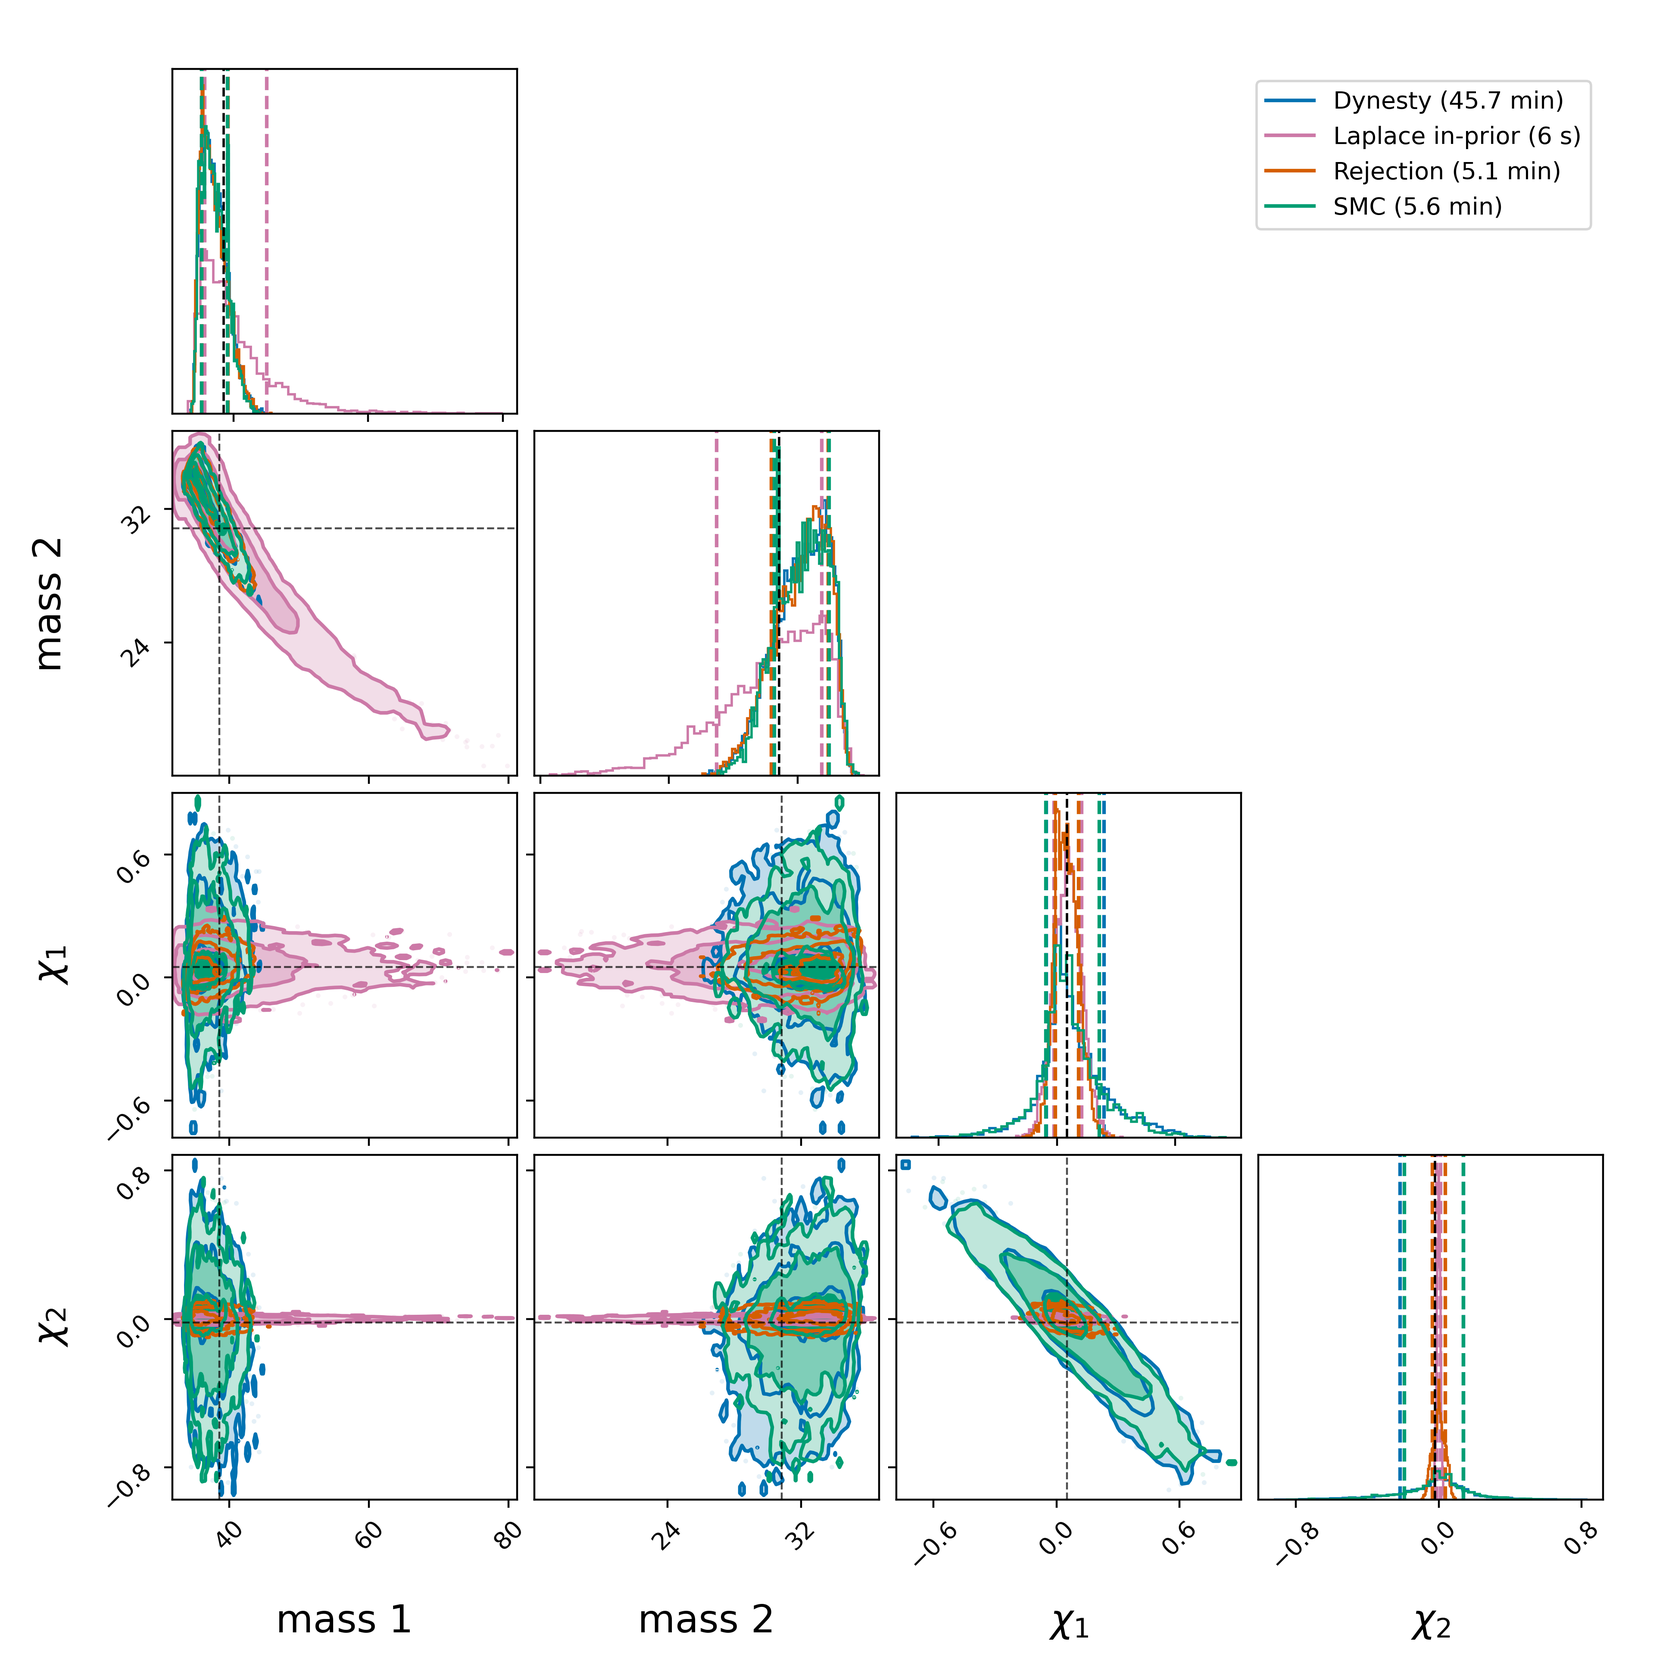
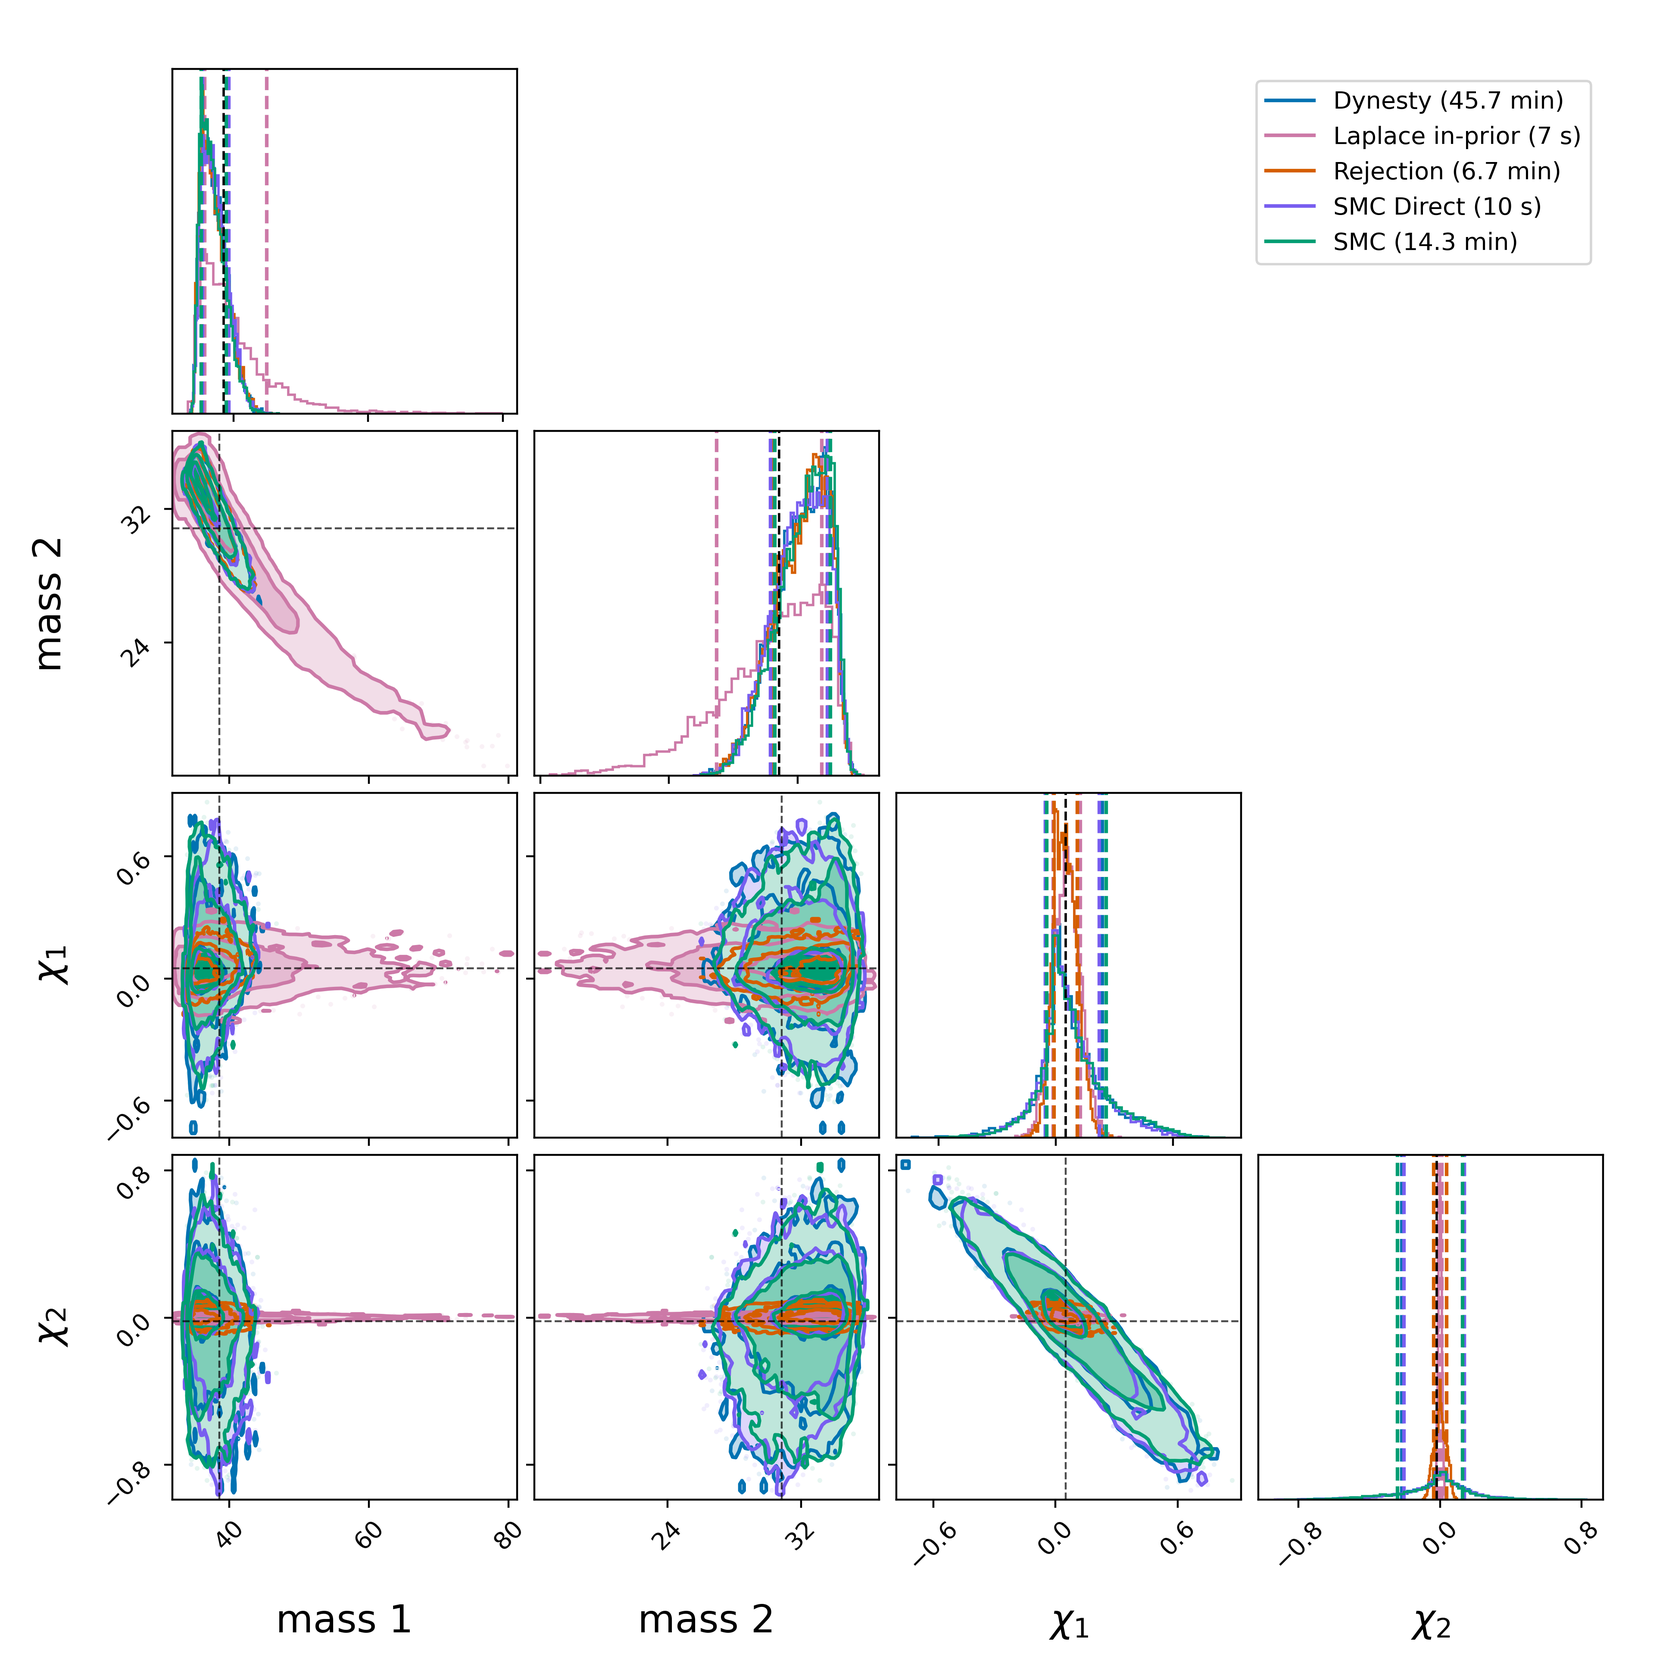
Update examples and fix broken issues

diff --git a/src/bilby_laplace/sampler.py b/src/bilby_laplace/sampler.py
@@ -993,15 +993,28 @@ class Laplace(Sampler):
         end_time = datetime.datetime.now()
         self.sampling_time = end_time - self.start_time
 
-        if self.use_ratio:
-            logl -= self.likelihood.noise_log_likelihood()
-
+        # Both quantities above are on the *full* likelihood's footing:
+        # ``LaplacePosteriorEstimator`` calls ``likelihood.log_likelihood()``
+        # regardless of ``use_ratio``, so every evidence here is a full log Z.
         logger.info(
-            f"Log-evidence summary: "
+            f"Log-evidence summary (full log Z, noise term included): "
             f"Laplace={log_evidence_laplace:.2f}, "
             f"final={log_evidence:.2f} "
             f"+/- {log_evidence_err:.2f}"
         )
+
+        # Hand bilby what its post-processing expects.  Under ``use_ratio`` it
+        # reads the returned evidence as a log Bayes factor and adds the noise
+        # evidence back on top (see ``bilby.core.sampler.run_sampler``), so the
+        # noise term has to come off here first.  The per-sample values take the
+        # identical shift -- subtracting it from ``logl`` alone, as this did,
+        # left one extra noise evidence in the reported log Z: ~13000 nats on a
+        # GW likelihood, enough to make log Z incomparable with any other
+        # sampler.  Shifting by a constant leaves ``log_evidence_err`` alone.
+        if self.use_ratio:
+            log_noise_evidence = self.likelihood.noise_log_likelihood()
+            logl -= log_noise_evidence
+            log_evidence -= log_noise_evidence
 
         if nlikelihood is None:
             nlikelihood = len(g_samples)
@@ -1086,6 +1099,38 @@ class Laplace(Sampler):
         df_out = pd.DataFrame(x_out, columns=parameter_names)
         df_out = self._replace_with_prior_samples(df_out, parameter_names)
         x_out = df_out.values
+        return x_out
+
+    def _draw_initial_smc_samples(self, proposals, n, parameter_names):
+        """Draw *n* in-prior samples spread evenly across *proposals*.
+
+        With one proposal this is exactly ``_draw_inprior_samples``.  With
+        several -- one per mode found by ``_find_multiple_maps`` -- the draw is
+        stratified so every mode contributes an equal share, which is what makes
+        the flow aspire fits to this cloud multimodal.  Returns an
+        ``(n, ndim)`` float array.
+        """
+        if len(proposals) == 1:
+            return self._draw_inprior_samples(proposals[0], n, parameter_names)
+
+        k = len(proposals)
+        # Spread the remainder over the leading modes so the total is exactly n.
+        counts = [n // k + (1 if i < n % k else 0) for i in range(k)]
+        chunks = []
+        for i, (mode_proposal, n_i) in enumerate(zip(proposals, counts)):
+            x_i = self._draw_inprior_samples(mode_proposal, n_i, parameter_names)
+            if len(x_i) < n_i:
+                logger.warning(f"Mode {i} contributed only {len(x_i)} of the {n_i} requested initial SMC samples")
+            chunks.append(x_i)
+
+        x_out = np.vstack(chunks)
+        # Shuffle so the cloud is not ordered by mode: aspire's flow training
+        # splits it into train/validation sets by position.
+        random.rng.shuffle(x_out)
+        logger.info(
+            f"Initial SMC cloud: {len(x_out)} samples over {k} modes "
+            f"({', '.join(str(len(c)) for c in chunks)})"
+        )
         return x_out
 
     def _check_iteration_limit(self, method_name, n_proposed, n_accepted):
@@ -1239,10 +1284,24 @@ class Laplace(Sampler):
                 [m for m, _ in map_estimates],
                 [c for _, c in map_estimates],
             )
+            # One truncated proposal per discovered mode.  Aspire has no way to
+            # take our mixture directly (``sample_posterior`` uses the flow that
+            # ``fit`` trains as its ``prior_flow``), so the modes must reach it
+            # through the initial cloud that flow is fit to.
+            init_proposals = [
+                TruncatedMVNProposal(
+                    mode_mean,
+                    mode_cov,
+                    lower=estimator.prior_bounds_min,
+                    upper=estimator.prior_bounds_max,
+                )
+                for mode_mean, mode_cov in map_estimates
+            ]
         else:
             proposal_flow = GaussianFlow(mean, cov)
+            init_proposals = [proposal]
 
-        samples, logl, smc_log_z, smc_log_z_err, nlikelihood = self._smc_sample(proposal_flow, proposal, estimator)
+        samples, logl, smc_log_z, smc_log_z_err, nlikelihood = self._smc_sample(init_proposals, estimator)
 
         if self.kwargs["plot_diagnostic"]:
             self.create_smc_diagnostic(samples, proposal_flow)
@@ -1668,13 +1727,17 @@ class Laplace(Sampler):
 
         return batched_log_likelihood
 
-    def _smc_sample(self, proposal_flow, proposal, estimator):
+    def _smc_sample(self, init_proposals, estimator):
         """Run posterior sampling via aspire, starting from the Laplace proposal.
 
-        Initial samples are drawn from *proposal* (a ``TruncatedMVNProposal``)
-        filtered to the prior support, matching the inprior/rejection sampling
-        approach.  ``aspire.sample_posterior()`` then refines these toward the
-        true posterior.
+        *init_proposals* is a list of ``TruncatedMVNProposal`` objects, one per
+        discovered posterior mode (a single entry unless ``n_modes > 1``).
+        Initial samples are drawn from them and filtered to the prior support,
+        matching the inprior/rejection sampling approach.  That cloud is what
+        ``aspire.fit()`` trains the flow on, and aspire passes that flow to the
+        sampler as its ``prior_flow`` -- so it, and nothing else, sets where the
+        annealing path starts.  ``aspire.sample_posterior()`` then refines the
+        particles toward the true posterior.
         """
         from aspire import Aspire
         from aspire.samples import Samples
@@ -1711,7 +1774,20 @@ class Laplace(Sampler):
 
         # Draw initial samples filtered to the prior support, consistent with
         # the inprior/rejection sampling paths.
-        initial_theta = self._draw_inprior_samples(proposal, n_initial, parameter_names)
+        initial_theta = self._draw_initial_smc_samples(init_proposals, n_initial, parameter_names)
+
+        if len(init_proposals) > 1 and self.kwargs["plot_diagnostic"]:
+            # Overwrite the proposal diagnostic now that the real initial cloud
+            # exists.  The copy written by ``run_sampler`` predates the mode
+            # search, so it shows only the primary mode and misrepresents where
+            # a multi-mode SMC run actually starts.
+            self.create_proposal_diagnostic(
+                init_proposals[0].mean,
+                init_proposals[0].cov,
+                parameter_names,
+                initial_theta,
+            )
+
         initial_samples = Samples(initial_theta, parameters=parameter_names)
         aspire_sampler.fit(initial_samples)
 

diff --git a/examples/BBH_HLV/run.py b/examples/BBH_HLV/run.py
@@ -5,7 +5,7 @@ Laplace approximation on a simulated BBH signal in an HLV network.
 
 Usage
 -----
-    python run.py --sampler laplace rejection smc dynesty
+    python run.py --sampler laplace rejection smc smc-direct dynesty
     python run.py --compare
 """
 
@@ -29,6 +29,15 @@ logger = bilby.core.utils.logger
 bilby.core.utils.random.seed(1234)
 outdir = "outdir_hlv_example"
 base_label = "hlv"
+
+# "smc-direct" is aspire driven straight from the prior, with no Laplace stage
+# at all.  It is a configuration of SMC specific to this example rather than a
+# method of its own, so it has no colour in the shared palette; without an
+# override it would inherit the SMC green and be indistinguishable from the
+# Laplace-seeded run it exists to be compared against.  The violet is from the
+# IBM colourblind-safe palette and stays separable from that green and the
+# dynesty blue.
+COLOUR_OVERRIDES = {"smc-direct": "#785EF0"}
 
 
 def setup():
@@ -209,17 +218,46 @@ def run_smc(_common_laplace):
         smc_kwargs=dict(
             sampler="minipcn_smc",
             n_initial_samples=10000,
-            n_samples=5000,
+            n_samples=10000,
             adaptive=True,
             sampler_kwargs=dict(
-                n_steps=5,
+                n_steps=10,
                 target_acceptance_rate=0.234,
                 step_fn="tpcn",
             ),
         ),
-        cov_scaling=1,
+        cov_scaling=2,
         jacobian_cap_scale=1,
         prior_parameters=["chi_1", "chi_2"],
+        n_modes=3,
+    )
+
+
+def run_smc_direct(_common):
+    """Aspire's SMC on its own, with no Laplace stage.
+
+    The control for ``run_smc``: same SMC sampler and the same particle count,
+    but seeded from prior draws rather than from the Laplace proposal, and via
+    ``aspire_bilby``'s own plugin rather than ours.  What it isolates is what the
+    Laplace stage buys -- everything downstream of the initial cloud is held
+    fixed.
+    """
+    return bilby.run_sampler(
+        **_common,
+        sampler="aspire",
+        label=f"{base_label}_smc_direct",
+        n_samples=10000,
+        n_initial_samples=10000,
+        sample_kwargs=dict(
+            sampler="minipcn_smc",
+            adaptive=True,
+            sampler_kwargs=dict(
+                n_steps=10,
+                target_acceptance_rate=0.234,
+                step_fn="tpcn",
+            ),
+        ),
+        npool=16,
     )
 
 
@@ -242,7 +280,12 @@ def compare():
     and print a comparison table. Custom to HLV example for intrinsic/extrinsic plots."""
     pattern = f"{outdir}/{base_label}_*_result.*"
     full_filename = f"{base_label}_comparison.png"
-    results, labels = compare_results(pattern, full_filename, sampler_only_labels=True)
+    results, labels = compare_results(
+        pattern,
+        full_filename,
+        sampler_only_labels=True,
+        colour_overrides=COLOUR_OVERRIDES,
+    )
     if len(results) < 2:
         return
 
@@ -273,7 +316,7 @@ def compare():
             fig = bilby.core.result.plot_multiple(
                 results,
                 labels=labels,
-                colours=colours_for_results(results),
+                colours=colours_for_results(results, overrides=COLOUR_OVERRIDES),
                 parameters=parameters,
                 filename=filename,
                 titles=False,
@@ -296,9 +339,9 @@ if __name__ == "__main__":
     parser.add_argument(
         "--sampler",
         nargs="+",
-        choices=["laplace", "rejection", "smc", "dynesty"],
+        choices=["laplace", "rejection", "smc", "smc-direct", "dynesty"],
         metavar="SAMPLER",
-        help="One or more samplers to run: laplace, rejection, smc, dynesty",
+        help="One or more samplers to run: laplace, rejection, smc, smc-direct, dynesty",
     )
     parser.add_argument(
         "--compare",
@@ -318,6 +361,7 @@ if __name__ == "__main__":
                 "laplace": lambda: run_laplace(_common_laplace),
                 "rejection": lambda: run_rejection(_common_laplace),
                 "smc": lambda: run_smc(_common_laplace),
+                "smc-direct": lambda: run_smc_direct(_common),
                 "dynesty": lambda: run_dynesty(_common),
             }
 

diff --git a/src/bilby_laplace/comparison.py b/src/bilby_laplace/comparison.py
@@ -141,6 +141,21 @@ def _format_duration(secs):
     return f" ({secs:.0f} s)"
 
 
+def _as_count(value):
+    """Coerce a likelihood-evaluation count to a float, or NaN if unusable.
+
+    Missing, ``None``, non-numeric and non-positive values all mean "not
+    recorded".  No sampler genuinely performs zero likelihood evaluations, so a
+    zero is a resumed run or an untracked plugin; printing it as ``0`` would
+    read as a real measurement, and it would divide by zero downstream.
+    """
+    try:
+        count = float(value)
+    except (TypeError, ValueError):
+        return np.nan
+    return count if count > 0 else np.nan
+
+
 def _format_efficiency(eff):
     """Format an efficiency percentage without collapsing small values to 0.
 
@@ -285,7 +300,13 @@ def compare(pattern, filename, injection_parameters=None, sampler_only_labels=Fa
         log_z_err = np.nan if log_z_err is None else log_z_err
         secs = r.sampling_time.total_seconds()
         run_stats = r.meta_data.get("run_statistics", {})
-        n_like = run_stats.get("nlikelihood", np.nan)
+        # ``run_statistics`` is written by this package's sampler and by bilby's
+        # own (dynesty).  Third-party plugins -- aspire's, for one -- populate
+        # only bilby's standard ``num_likelihood_evaluations``, so fall back to
+        # that rather than printing a dash for a count the result does carry.
+        n_like = _as_count(run_stats.get("nlikelihood"))
+        if not np.isfinite(n_like):
+            n_like = _as_count(getattr(r, "num_likelihood_evaluations", None))
         # The Laplace sampler records its own "efficiency" (final samples per
         # likelihood evaluation).  Other samplers (e.g. dynesty) don't, but
         # bilby stores nlikelihood and neffsamples, so we reconstruct the same
@@ -295,6 +316,12 @@ def compare(pattern, filename, injection_parameters=None, sampler_only_labels=Fa
         eff = run_stats.get("efficiency", np.nan)
         if not np.isfinite(eff):
             neff = run_stats.get("neffsamples", np.nan)
+            if not np.isfinite(_as_count(neff)):
+                # Last resort for a plugin that records neither: the posterior's
+                # own length.  Exact only when the sampler returns iid draws
+                # (aspire rejection-samples to iid before handing them back);
+                # a weighted posterior would make this an over-estimate.
+                neff = len(r.posterior) if getattr(r, "posterior", None) is not None else np.nan
             if np.isfinite(neff) and np.isfinite(n_like) and n_like:
                 eff = 100.0 * neff / n_like
         name = os.path.basename(r.label)

diff --git a/tests/test_comparison.py b/tests/test_comparison.py
@@ -1,5 +1,6 @@
 """Tests for the sampler-family colour mapping used by the examples."""
 
+import numpy as np
 import pytest
 
 from bilby_laplace.comparison import (
@@ -105,3 +106,35 @@ def test_sampler_labels_strip_shared_prefix_and_prettify():
 def test_sampler_labels_single_result_has_no_prefix_to_strip():
     # With one result there is no shared prefix; the full basename is kept.
     assert sampler_labels([_FakeResult("gaussian_smc")]) == ["Gaussian SMC"]
+
+
+# --------------------------------------------------------------------------
+# Likelihood-evaluation counts in the comparison table.  `run_statistics` is
+# written by this package's sampler and by bilby's dynesty, but not by
+# third-party plugins such as aspire's, which populate only bilby's standard
+# `num_likelihood_evaluations`.  Reading one field alone printed a dash for a
+# count the result was carrying.
+# --------------------------------------------------------------------------
+
+
+@pytest.mark.parametrize(
+    "value, expected",
+    [
+        (1330000, 1330000.0),
+        (1330000.0, 1330000.0),
+        ("1330000", 1330000.0),
+        (None, None),  # not recorded
+        (0, None),  # resumed run / untracked plugin -- never a real measurement
+        (-5, None),
+        ("nonsense", None),
+        (float("nan"), None),
+    ],
+)
+def test_as_count_rejects_unusable_values(value, expected):
+    from bilby_laplace.comparison import _as_count
+
+    result = _as_count(value)
+    if expected is None:
+        assert not np.isfinite(result)
+    else:
+        assert result == expected

diff --git a/docs/guide/resampling.md b/docs/guide/resampling.md
@@ -55,3 +55,10 @@ draws (Latin hypercube), distinct MAP estimates are deduplicated by a 3-sigma
 separation, and they are combined into an equal-weight Gaussian mixture used as the
 SMC starting distribution. `mode_search_nsamples` controls how many prior draws are
 evaluated when searching for secondary modes.
+
+The mixture reaches aspire through the initial particle cloud, which is drawn in
+equal shares from a truncated Gaussian per mode. Aspire has no argument for a
+proposal distribution: `sample_posterior()` uses whichever flow `fit()` trained as
+its `prior_flow`, and `fit()` is trained on that cloud. Seed the cloud from one
+mode and the annealing path starts unimodal regardless of how many modes were
+found, so the stratification is what makes `n_modes > 1` do anything at all.

diff --git a/docs/quickstart.md b/docs/quickstart.md
@@ -28,6 +28,15 @@ print(result.meta_data["run_statistics"])
 - `result.meta_data["run_statistics"]` — efficiency, number of likelihood
   evaluations, sampling time, and the Laplace log-evidence.
 
+`result.log_evidence` is the full log Z, including the noise term, and
+`result.log_bayes_factor` is that less `result.log_noise_evidence` — the same
+convention every other bilby sampler uses, so the numbers are directly
+comparable with (say) dynesty. This holds under `use_ratio` either way: the
+estimator always evaluates the full likelihood, and the sampler converts to
+bilby's expected footing on the way out. A constant offset cannot move the MAP
+or the curvature, so `use_ratio` affects only the reported evidence, never the
+posterior.
+
 ## Common adjustments
 
 ```python
